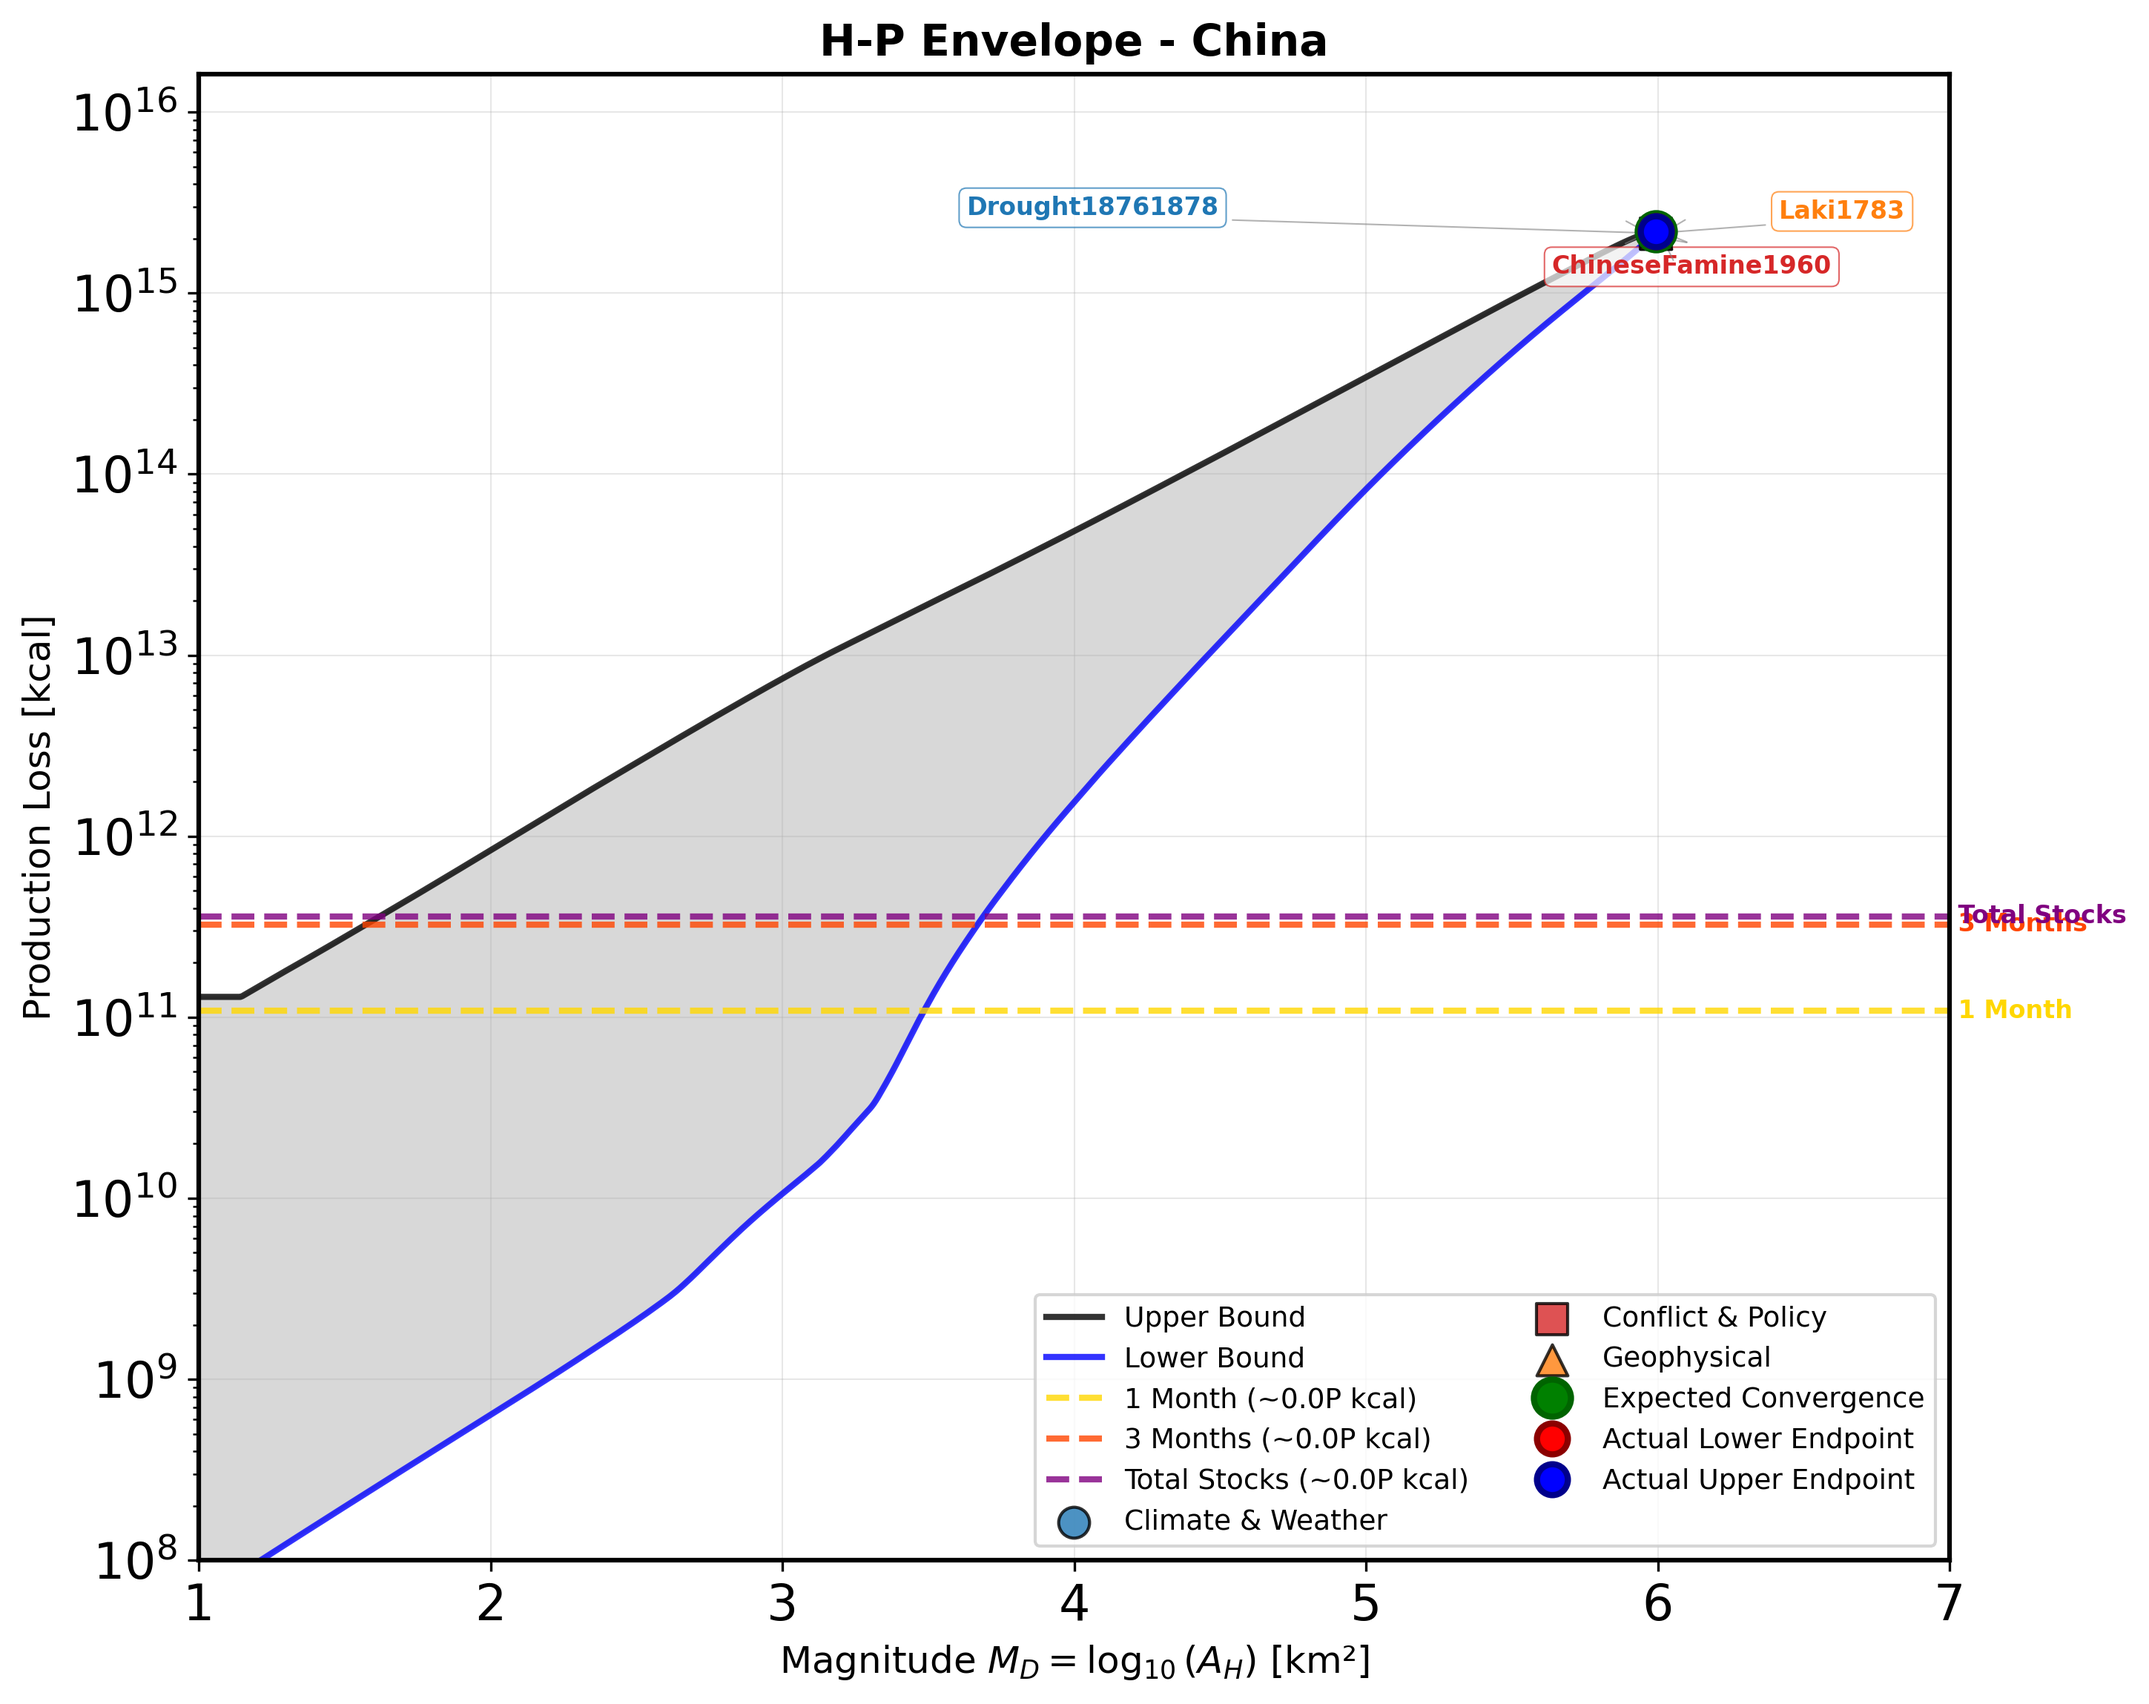
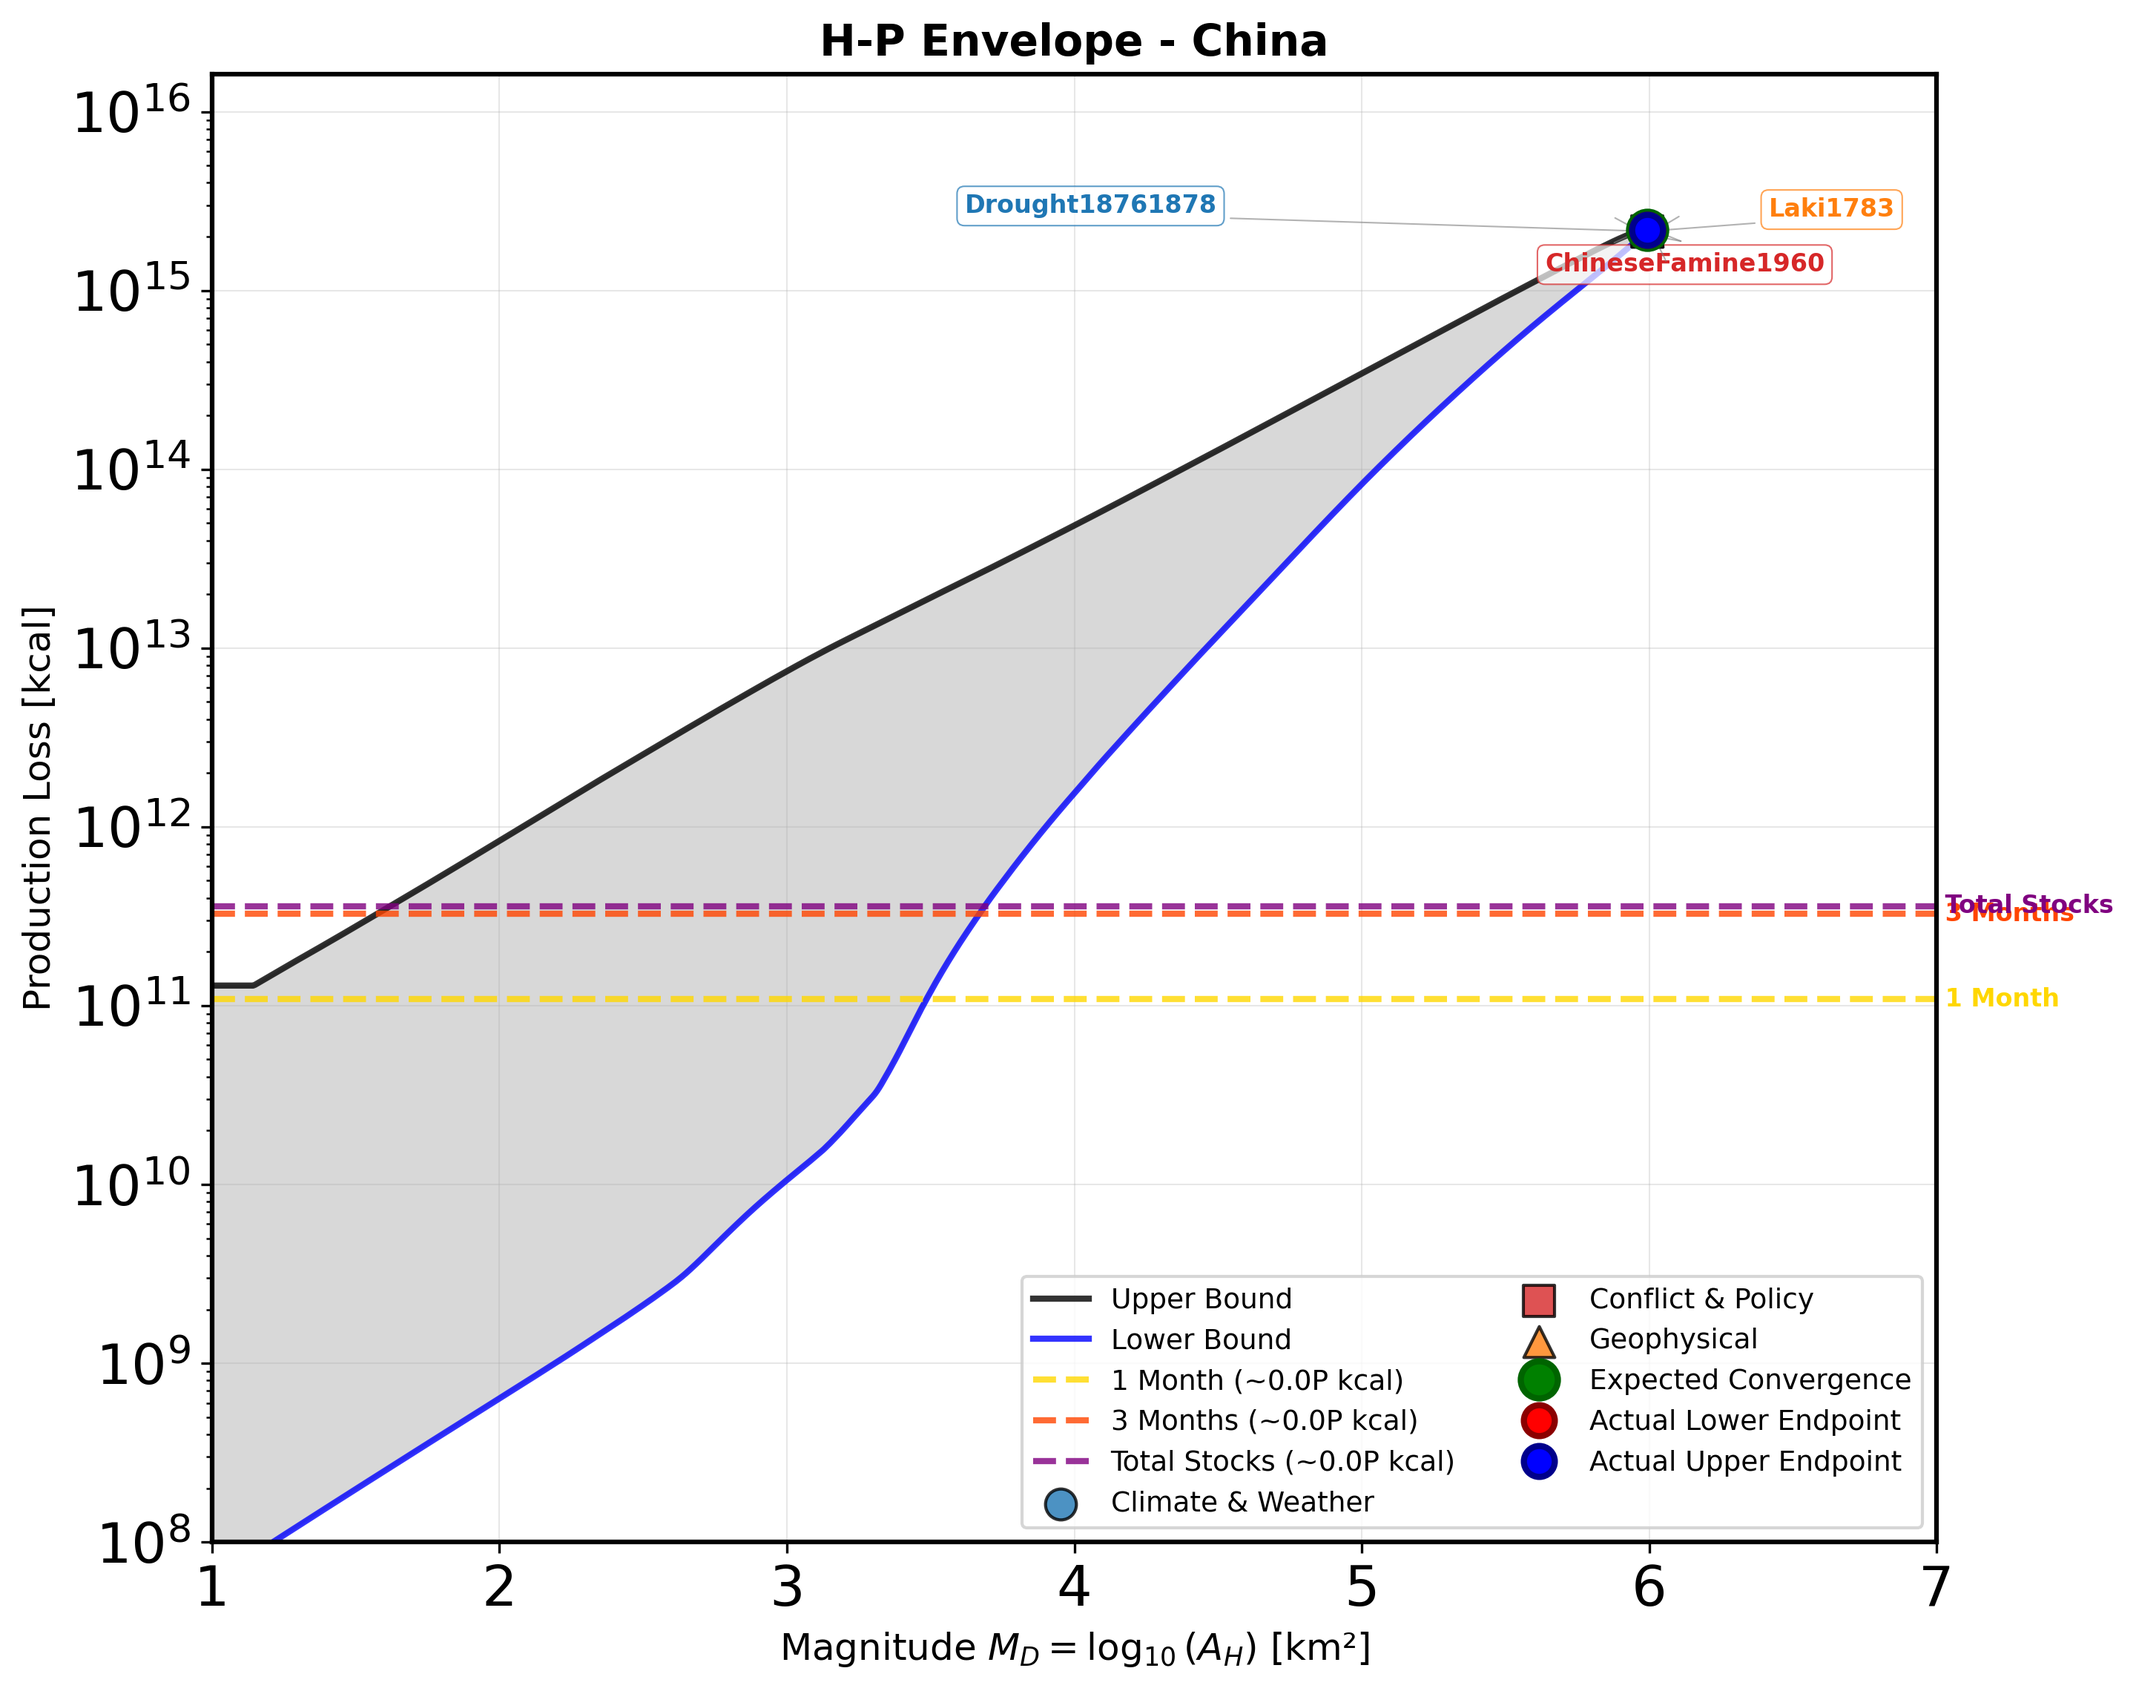
Update Figure 4 to 6-panel combined layout (USA, China, India, Brazil, France, Argentina) and increase font sizes for all figures

diff --git a/scripts/fig4_country_envelopes.py b/scripts/fig4_country_envelopes.py
@@ -21,14 +21,14 @@ sys.path.append(str(Path(__file__).parent.parent))
 logging.basicConfig(level=logging.INFO, format='%(asctime)s - %(levelname)s - %(message)s')
 logger = logging.getLogger('figure4')
 
-# Set journal-quality fonts (Nature style)
+# Set journal-quality fonts (Nature style - Larger)
 mpl.rcParams.update({
-    'font.size': 18,
-    'axes.titlesize': 22,
-    'axes.labelsize': 20,
-    'xtick.labelsize': 16,
-    'ytick.labelsize': 16,
-    'legend.fontsize': 16,
+    'font.size': 20,
+    'axes.titlesize': 24,
+    'axes.labelsize': 22,
+    'xtick.labelsize': 18,
+    'ytick.labelsize': 18,
+    'legend.fontsize': 18,
     'font.weight': 'normal',
     'axes.linewidth': 1.5,
     'lines.linewidth': 2.0,
@@ -281,15 +281,19 @@ def main():
                 logger.error(traceback.format_exc())
                 continue
         
-        # Create 4-panel combined figure for CORE countries
-        logger.info("Creating 4-panel combined figure (Core Countries)...")
-        fig, axes = plt.subplots(2, 2, figsize=(20, 16))
+        # Combine all countries into a single 6-panel figure (Core + selected Additional)
+        # Selection: USA, China, India, Brazil, France, Argentina
+        # (Egypt and Australia moved to supplementary/individual)
+        selected_countries = ['USA', 'China', 'India', 'Brazil', 'France', 'Argentina']
+        
+        logger.info("Creating 6-panel combined figure (Selected Countries)...")
+        fig, axes = plt.subplots(2, 3, figsize=(24, 16))
         axes = axes.flatten()
         
         # Debug: Print plot_data keys
         logger.info(f"Available countries in plot_data: {list(plot_data.keys())}")
         
-        for i, country_key in enumerate(core_countries):
+        for i, country_key in enumerate(selected_countries):
             logger.info(f"  Plotting subplot {i}: {country_key}")
             if country_key not in plot_data:
                 logger.warning(f"    ⚠ {country_key} missing from plot_data!")
@@ -311,41 +315,14 @@ def main():
                 total_harvest=data['harv']
             )
             
-            axes[i].set_title(country_key, fontsize=20, fontweight='bold')
+            axes[i].set_title(country_key, fontsize=24, fontweight='bold')
             logger.info(f"    ✓ Added subplot for {country_key}")
         
         plt.tight_layout(pad=2.0)
         output_path = results_dir / 'figure4_country_envelopes.png'
         plt.savefig(output_path, dpi=300, bbox_inches='tight', facecolor='white')
         plt.close()
-        logger.info(f"✅ Core combined figure saved: {output_path}")
-        
-        # Create 4-panel combined figure for ADDITIONAL countries
-        logger.info("Creating 4-panel combined figure (Additional Countries)...")
-        fig, axes = plt.subplots(2, 2, figsize=(20, 16))
-        axes = axes.flatten()
-        
-        for i, country_key in enumerate(additional_countries):
-            if country_key not in plot_data:
-                continue
-                
-            data = plot_data[country_key]
-            visualizer = HPEnvelopeVisualizer(data['config'])
-            
-            visualizer.create_hp_envelope_plot(
-                data['envelope'], 
-                data['events'],
-                ax=axes[i],
-                total_production=data['prod'],
-                total_harvest=data['harv']
-            )
-            axes[i].set_title(country_key, fontsize=20, fontweight='bold')
-            
-        plt.tight_layout(pad=2.0)
-        output_path_add = results_dir / 'figure4_additional_countries.png'
-        plt.savefig(output_path_add, dpi=300, bbox_inches='tight', facecolor='white')
-        plt.close()
-        logger.info(f"✅ Additional combined figure saved: {output_path_add}")
+        logger.info(f"✅ Combined 6-panel figure saved: {output_path}")
 
         return 0
         

diff --git a/scripts/fig2_agrichter_scale.py b/scripts/fig2_agrichter_scale.py
@@ -19,14 +19,14 @@ sys.path.append(str(Path(__file__).parent.parent))
 logging.basicConfig(level=logging.INFO, format='%(asctime)s - %(levelname)s - %(message)s')
 logger = logging.getLogger('figure2')
 
-# Set journal-quality fonts (Nature style)
+# Set journal-quality fonts (Nature style - Larger)
 mpl.rcParams.update({
-    'font.size': 18,
-    'axes.titlesize': 22,
-    'axes.labelsize': 20,
-    'xtick.labelsize': 16,
-    'ytick.labelsize': 16,
-    'legend.fontsize': 16,
+    'font.size': 20,
+    'axes.titlesize': 24,
+    'axes.labelsize': 22,
+    'xtick.labelsize': 18,
+    'ytick.labelsize': 18,
+    'legend.fontsize': 18,
     'font.weight': 'normal',
     'axes.linewidth': 1.5,
     'lines.linewidth': 2.0,

diff --git a/scripts/fig3_hp_envelopes.py b/scripts/fig3_hp_envelopes.py
@@ -20,14 +20,14 @@ sys.path.append(str(Path(__file__).parent.parent))
 logging.basicConfig(level=logging.INFO, format='%(asctime)s - %(levelname)s - %(message)s')
 logger = logging.getLogger('figure3')
 
-# Set journal-quality fonts (Nature style)
+# Set journal-quality fonts (Nature style - Larger)
 mpl.rcParams.update({
-    'font.size': 18,
-    'axes.titlesize': 22,
-    'axes.labelsize': 20,
-    'xtick.labelsize': 16,
-    'ytick.labelsize': 16,
-    'legend.fontsize': 16,
+    'font.size': 20,
+    'axes.titlesize': 24,
+    'axes.labelsize': 22,
+    'xtick.labelsize': 18,
+    'ytick.labelsize': 18,
+    'legend.fontsize': 18,
     'font.weight': 'normal',
     'axes.linewidth': 1.5,
     'lines.linewidth': 2.0,

diff --git a/scripts/fig1_global_maps.py b/scripts/fig1_global_maps.py
@@ -19,14 +19,14 @@ sys.path.append(str(Path(__file__).parent.parent))
 logging.basicConfig(level=logging.INFO, format='%(asctime)s - %(levelname)s - %(message)s')
 logger = logging.getLogger('figure1')
 
-# Set journal-quality fonts (Nature style)
+# Set journal-quality fonts (Nature style - Larger)
 mpl.rcParams.update({
-    'font.size': 18,
-    'axes.titlesize': 22,
-    'axes.labelsize': 20,
-    'xtick.labelsize': 16,
-    'ytick.labelsize': 16,
-    'legend.fontsize': 16,
+    'font.size': 20,
+    'axes.titlesize': 24,
+    'axes.labelsize': 22,
+    'xtick.labelsize': 18,
+    'ytick.labelsize': 18,
+    'legend.fontsize': 18,
     'font.weight': 'normal',
     'axes.linewidth': 1.5,
 })
